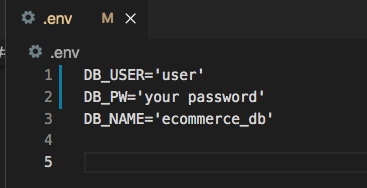
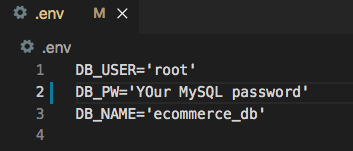
Added img to the README file

diff --git a/README.md b/README.md
@@ -24,9 +24,9 @@ WHEN I enter schema and seed commands
 THEN a development database is created and is seeded with test data
 WHEN I enter the command to invoke the application
 THEN my server is started and the Sequelize models are synced to the MySQL database
-WHEN I open API GET routes in Insomnia Core for categories, products, or tags
+WHEN I open API GET routes in Postman for categories, products, or tags
 THEN the data for each of these routes is displayed in a formatted JSON
-WHEN I test API POST, PUT, and DELETE routes in Insomnia Core
+WHEN I test API POST, PUT, and DELETE routes in Postman
 THEN I am able to successfully create, update, and delete data in my database
 ```
 
@@ -86,38 +86,59 @@ npm install dotenv
 - JavaScript
 - Node.js
 - Express.js
-- Insomnia Core: [Insomnia Core](https://insomnia.rest/products/insomnia)
+- Postman: [Postman](https://www.postman.com/)
 - MySQL2: [MySQL2](https://www.npmjs.com/package/mysql2)
 - Sequelize: [Sequelize](https://www.npmjs.com/package/sequelize)
 - dotenv: [dotenv](https://www.npmjs.com/package/dotenv)
 
 ## Usage
+The following video shows how the application is being tested in Postman:
 
-- The following video shows how the application works in Insomnia Core:
+1. Creating the schema from MySQL shell and seed the database from the terminal. 
+2. The application's GET routes to return ALL categories, all products, and all tags being tested.
+3. The application's GET routes to return a SINGLE category, a single product, and a single tag being tested.
+4. The application's POST, PUT, and DELETE routes for categories, products and tags being tested.
 
-1. The application's GET routes to return all categories, all products, and all tags being tested in Insomnia Core.
-2. The application's GET routes to return a single category, a single product, and a single tag being tested in Insomnia Core.
-3. The application's POST, PUT, and DELETE routes for categories being tested in Insomnia Core
-4. The application's POST, PUT, and DELETE routes for products and tags being tested in Insomnia Core.
 
 ![In Insomnia Core, the user tests “GET tags,” “GET Categories,” and “GET All Products.”.](./Assets/13-orm-homework-demo-01.gif)
 
-### Steps to start the application
+### Steps to set up the application for testing 
 
+- Creating the connection: 
+
+1. Create a .env file and put your credentials in it. 
+
+![.env file example](./Assets/env.png)
+
+2. Check that MySQL server is running 
+![MySQL server running](./Assets/serverOn.png)
+
+- Create the schema from MySQL shell and seed the database from the terminal:
+
+1. Run the command below 
+```bash
+mysql -u root -p 
+```
+2. Create the database 
+![creating the db](./Assets/db.png)
+
+3. Seed the database by running the command below 
+```bash
+npm run seed
+```
+
+- To generate the application:
 1. Run the following command in the terminal:
 
 ```bash
 node server.js
 ```
-2. Create a .env file and put your credentials in it:
-
-![.env file example](./Assets/env.png)
-
+- The application is ready to be tested in Postman
 
 
 ### Database Models
 
-The database contains the following four models, including the requirements listed for each model:
+This database contains the following four models, including the requirements listed for each model:
 
 - `Category`
 
@@ -221,21 +242,11 @@ The database contains the following four models, including the requirements list
 
 ### Associations
 
-You'll need to execute association methods on your Sequelize models to create the following relationships between them:
+This application models has the following relationships between them:
 
 - `Product` belongs to `Category`, and `Category` has many `Product` models, as a category can have multiple products but a product can only belong to one category.
 
 - `Product` belongs to many `Tag` models, and `Tag` belongs to many `Product` models. Allow products to have multiple tags and tags to have many products by using the `ProductTag` through model.
-
-> **Hint:** Make sure you set up foreign key relationships that match the column we created in the respective models.
-
-### Fill Out the API Routes to Perform RESTful CRUD Operations
-
-Fill out the unfinished routes in `product-routes.js`, `tag-routes.js`, and `category-routes.js` to perform create, read, update, and delete operations using your Sequelize models.
-
-Note that the functionality for creating the many-to-many relationship for products has already been completed for you.
-
-> **Hint**: Be sure to look at the mini-project code for syntax help and use your model's column definitions to figure out what `req.body` will be for POST and PUT routes!
 
 ### Seed the Database
 
